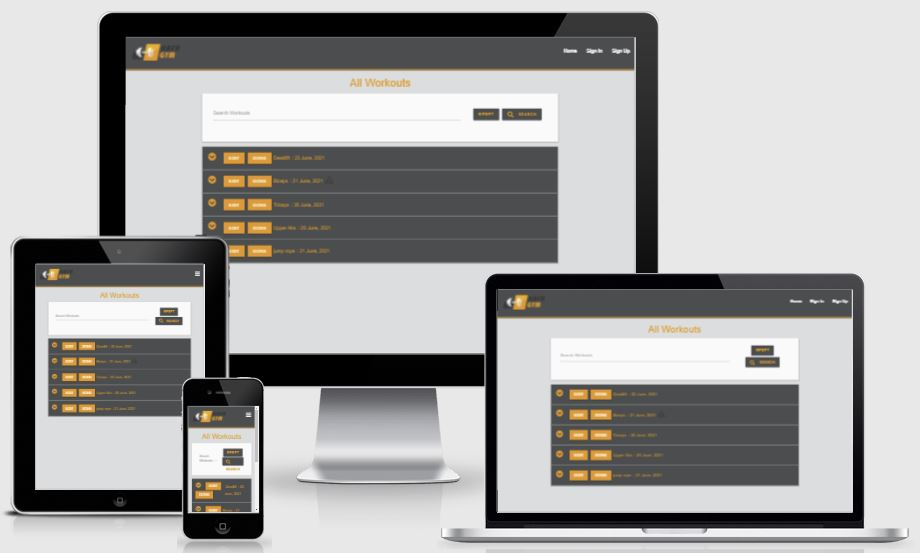
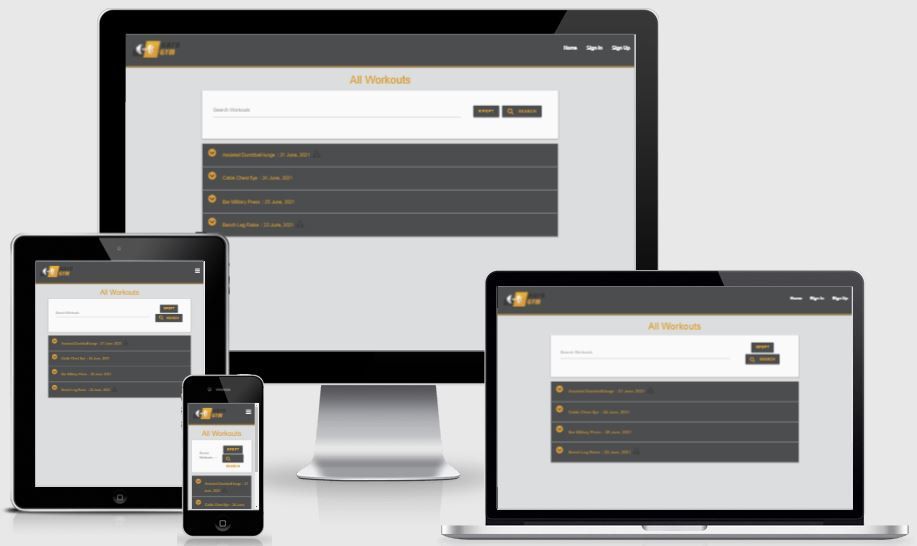
MS3 responsiveness updated

Changed region(s): [[0.0, 0.0, 1.0, 0.9963], [0.3359, 0.8407, 0.4885, 0.9029], [0.4885, 0.1868, 0.6107, 0.2179]]

diff --git a/README.md b/README.md
@@ -30,11 +30,9 @@ web app features easily and with help of simple but clean colour combination.
 The web design main target is to provide the user with the ability to interact with the game. The layout consists of features and elements that allows the user to navigate and use the interact with the game. 
 <ul>
     <li>Colour Scheme</li><br>
-    - The dominating color throughout the entire layout is dark grey which is combined with light grey color used for header and the instruction card area. In order to make the text content stand out, I used the orange color for typography which created a harmonious combination for both text and buttons background color.<br><br>
+    - The dominating color throughout the entire layout is light grey which is combined with dark grey color used for header in the navbar. In order to make the text buttons and logo stand out, I used the orange color for which created a harmonious combination for both text and buttons background color.<br><br>
     <li>Typography</li><br>
-    - The 'Press Start 2P' is the main font that was used while 'Sans Serif' was kept as backup font in case 'Press Start 2P' fails to respond effectively. The two typographies were fetched from google fonts. I found 'Press Start 2P' friendly for games design.<br><br>
-    <li>Emoji Icons</li><br>
-    - Five emoji icons were used in JavaScript code in order to accompany the user anticipated feelings upon guessing right or wrong in relation to the secret number and from the html 'Attempt' and 'Score' elements.<br>   
+    - This was generated by materialize used mainly of styling.<br><br>   
 
 </ul>
 
